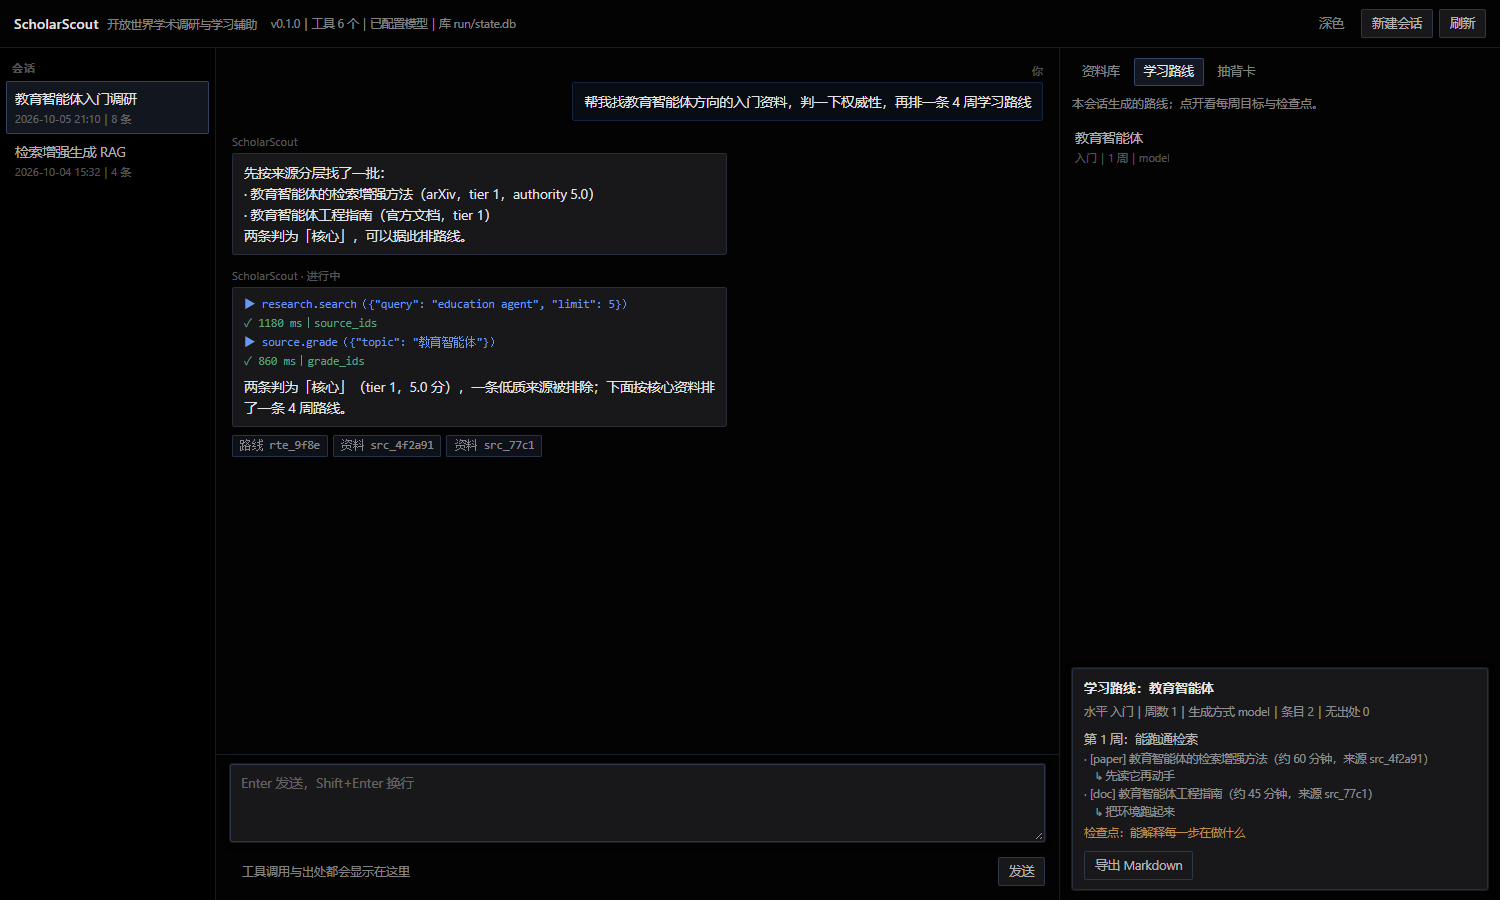
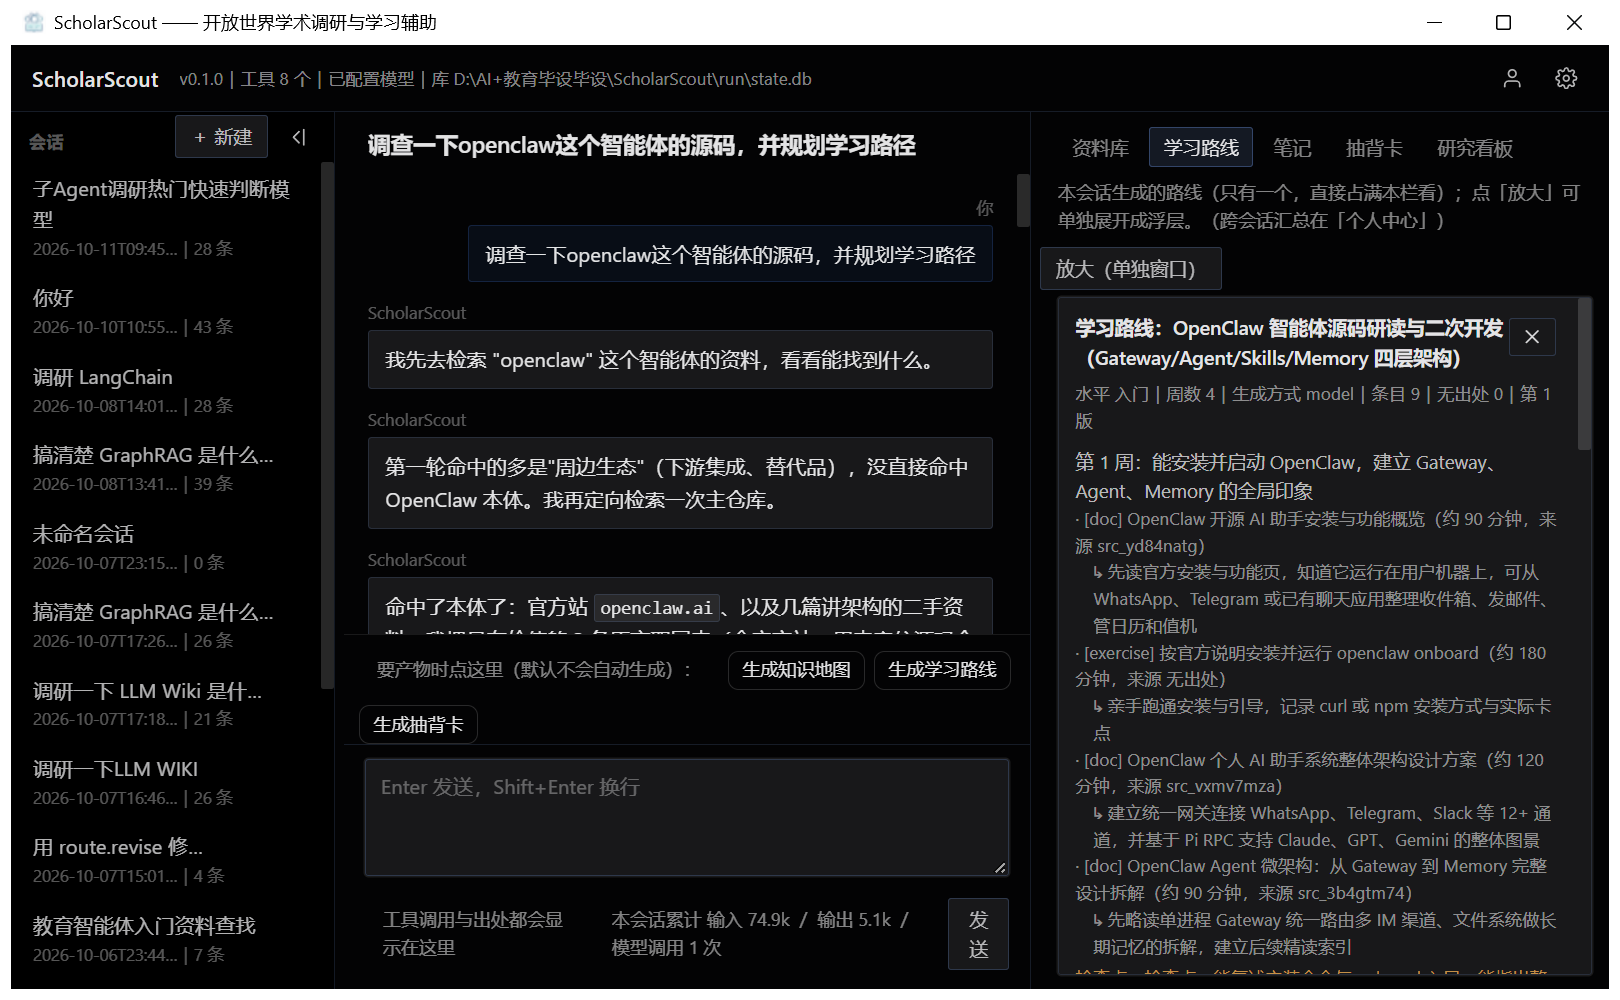
docs(readme): 刷新界面截图（2026-10-11 真实界面，浅色 + 深色）
旧截图是 2026-10-05 拍的（标题栏还写着'工具 6 个'、侧栏与资料库都是旧版）。新截图用真实应用 + 真实会话抓：openSession 打开库里有主题图/路线/笔记的那次调研，右侧切到学习路线面板，深浅两档同一会话同一滚动位置。

抓图方式沿用项目已有工具链（run/_shot_hero.py，run/ 不入库）：pywebview 真实窗口 + PrintWindow（后台窗口也能抓，不抢焦点），PNG 用已批准的 pymupdf 转（项目禁引 PIL）。

diff --git a/README.md b/README.md
@@ -15,8 +15,8 @@
 三栏：左 = 会话列表，中 = 对话（**工具调用与出处都会显示**，每条回答下面挂的是真实出处 chip），
 右 = 资料库 / 学习路线 / 抽背卡。浅色为默认，顶栏可切深色。
 
-> 截图拍摄于 2026-10-05。标题栏里的"工具 N 个"是启动时的**真实注册数**（当时 6 个，现在是 8 个）——
-> 此后界面与工具集都有更新，以实际运行为准。
+> 截图拍摄于 **2026-10-11**，是**当前界面**的真实运行画面：会话、工具调用轨迹与右侧学习路线都是库里的真实数据，
+> 出处 chip 上挂的是真实的 `src_*`。状态行里的工具数与库路径由后端在启动时上报。
 
 ## 这是什么 / 不是什么
 
